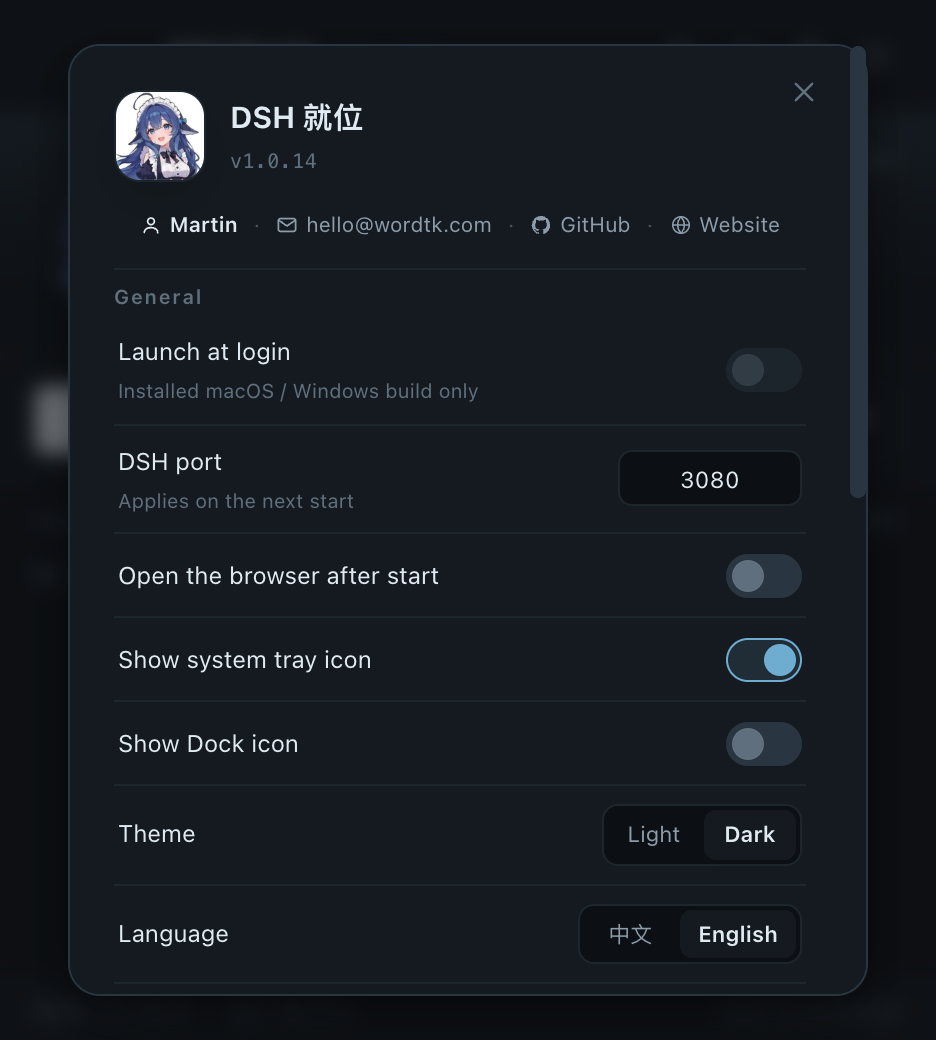
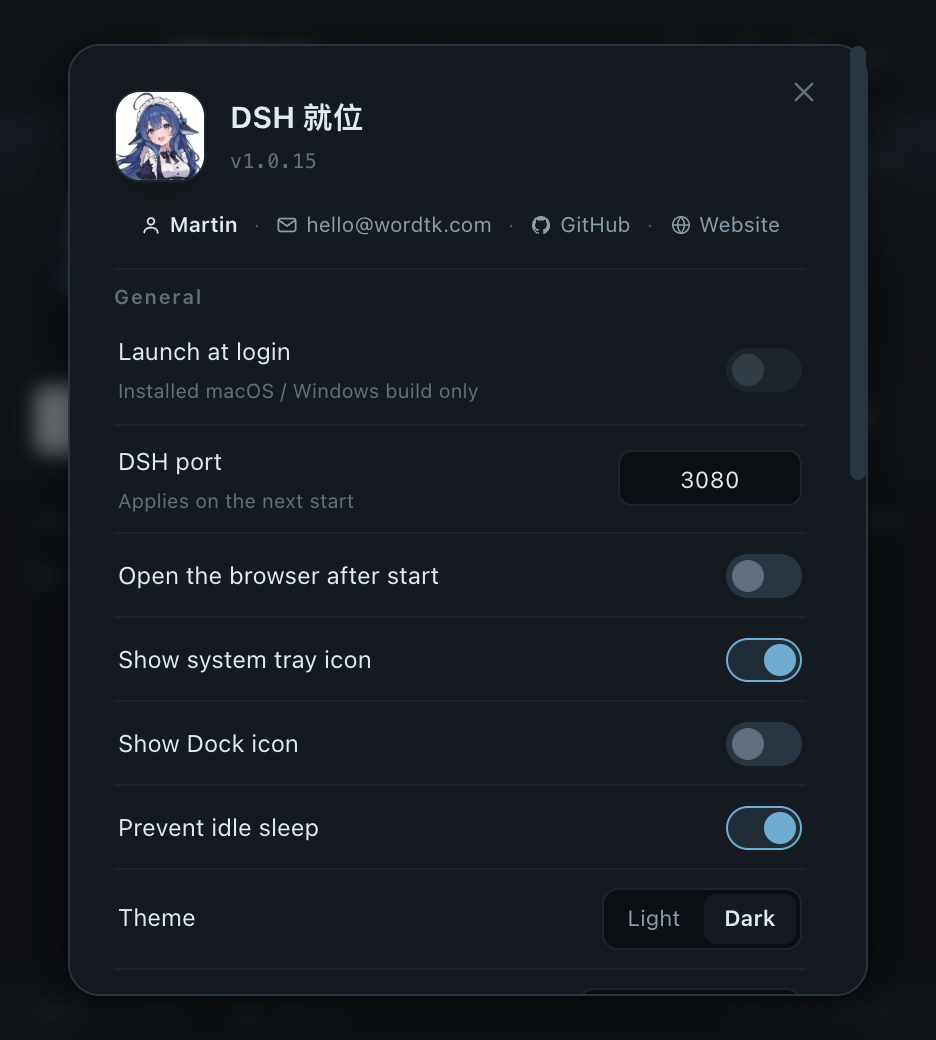
feat(sleep): add a macOS "prevent idle sleep" switch, on by default
A DSH session is useless once the Mac idle-sleeps: the web UI is only reachable
while the process is awake, and macOS suspends back after a few idle minutes even
though nobody touches the keyboard. Settings now has "Prevent idle sleep"
(macOS only, on by default): with it on, the launch is wrapped in
`/usr/bin/caffeinate -i`, so the machine holds a PreventUserIdleSystemSleep
assertion for as long as DSH lives.

- `server.sleepInhibitor()` owns the platform + path knowledge (darwin and an
  existing /usr/bin/caffeinate); the spawn keeps `detached` process groups, so
  stopping DSH still tears down the caffeinate assertion holder with it.
- The setting is read when DSH is spawned, so a toggle cannot apply live. It is
  written immediately and `settings:set` answers `restartRequired` only while an
  app-managed DSH is running; the sheet then raises the in-app confirm dialog.
  "Restart now" runs the new `dsh:restart` (stop -> start, status `restarting`);
  cancelling rolls `preventSleep` back and returns focus to the switch. With DSH
  stopped nothing is asked and the value applies on the next start.
- `.modal` moved above the sheet (z 80 vs 70): the dialog is raised from a switch
  inside the sheet and must be the topmost layer.
- Windows / Linux: the write is refused in the main process, the row is disabled
  with "macOS only" and reads off — the switch never claims what the app cannot do.

Verified on macOS in a sandboxed run (own DSH_HOME, own port, own app data): the
[…]

diff --git a/renderer/i18n.js b/renderer/i18n.js
@@ -37,6 +37,8 @@
       'sheet.showTray': '显示系统托盘图标',
       'sheet.showDock': '显示 Dock 图标',
       'sheet.showDockMacOnly': '仅 macOS 可用',
+      'sheet.preventSleep': '阻止空闲休眠',
+      'sheet.preventSleepMacOnly': '仅 macOS 可用',
       'sheet.npmRegistry': 'npm 源',
       'sheet.registryAuto': '自动',
       'sheet.registryOfficial': '官方',
@@ -75,6 +77,7 @@
       'status.starting': '启动中',
       'status.running': '运行中',
       'status.stopping': '停止中',
+      'status.restarting': '重启中',
       'status.installing': '安装中',
       'status.upgrading': '升级中',
       'status.uninstalling': '卸载中',
@@ -93,6 +96,7 @@
       'hint.starting': '正在准备运行环境，通常几秒内完成。',
       'hint.running': 'DSH 正在本机运行，可随时在浏览器访问。',
       'hint.stopping': '正在关闭 DSH 进程。',
+      'hint.restarting': '正在重启 DSH 进程。',
       'hint.installing': '正在下载并安装依赖，请保持网络连接。',
       'hint.upgrading': '正在升级 DSH 与插件，请保持网络连接。',
       'hint.uninstalling': '正在移除 DSH 程序与配置。',
@@ -160,6 +164,8 @@
       'notice.opened': '已在浏览器打开',
       'notice.stopping': '正在停止 DSH…',
       'notice.stopped': 'DSH 已停止',
+      'notice.restarting': '正在重启 DSH…',
+      'notice.restarted': 'DSH 已重启',
       'notice.upgrading': '开始升级 DSH…',
       'notice.upgraded': 'DSH 已升级',
       'notice.uninstalling': '正在卸载 DSH…',
@@ -178,6 +184,10 @@
       'takeover.cancel': '取消',
 
       'dialog.cancel': '取消',
+      'sleep.restartTitle': '重启 DSH 使设置生效',
+      'sleep.restartDetail': '「阻止空闲休眠」只在启动 DSH 时生效。现在重启 DSH 吗？取消则恢复原来的设置。',
+      'sleep.restartNow': '立即重启',
+      'sleep.reverted': '已取消重启，设置保持不变',
       'quit.title': '退出 DSH 就位',
       'quit.detailRunning': '退出会同时停止正在运行的 DSH 进程。',
       'quit.detailIdle': '退出后需要重新打开应用才能启动 DSH。',
@@ -238,6 +248,8 @@
       'sheet.showTray': 'Show system tray icon',
       'sheet.showDock': 'Show Dock icon',
       'sheet.showDockMacOnly': 'macOS only',
+      'sheet.preventSleep': 'Prevent idle sleep',
+      'sheet.preventSleepMacOnly': 'macOS only',
       'sheet.npmRegistry': 'npm registry',
       'sheet.registryAuto': 'Auto',
       'sheet.registryOfficial': 'Official',
@@ -276,6 +288,7 @@
       'status.starting': 'Starting',
       'status.running': 'Running',
       'status.stopping': 'Stopping',
+      'status.restarting': 'Restarting',
       'status.installing': 'Installing',
       'status.upgrading': 'Upgrading',
       'status.uninstalling': 'Uninstalling',
@@ -294,6 +307,7 @@
       'hint.starting': 'Preparing the runtime, usually a few seconds.',
       'hint.running': 'DSH is running locally and available in your browser.',
       'hint.stopping': 'Closing the DSH process.',
+      'hint.restarting': 'Restarting the DSH process.',
       'hint.installing': 'Downloading and installing dependencies. Keep the network on.',
       'hint.upgrading': 'Upgrading DSH and plugins. Keep the network on.',
       'hint.uninstalling': 'Removing DSH programs and configuration.',
@@ -361,6 +375,8 @@
       'notice.opened': 'Opened in your browser',
       'notice.stopping': 'Stopping DSH…',
       'notice.stopped': 'DSH stopped',
+      'notice.restarting': 'Restarting DSH…',
+      'notice.restarted': 'DSH restarted',
       'notice.upgrading': 'Upgrading DSH…',
       'notice.upgraded': 'DSH upgraded',
       'notice.uninstalling': 'Uninstalling DSH…',
@@ -379,6 +395,10 @@
       'takeover.cancel': 'Cancel',
 
       'dialog.cancel': 'Cancel',
+      'sleep.restartTitle': 'Restart DSH to apply',
+      'sleep.restartDetail': 'Prevent idle sleep only applies when DSH starts. Restart DSH now? Cancelling restores the previous setting.',
+      'sleep.restartNow': 'Restart now',
+      'sleep.reverted': 'Restart cancelled — the setting was rolled back',
       'quit.title': 'Quit DSH Ready',
       'quit.detailRunning': 'Quitting also stops the running DSH process.',
       'quit.detailIdle': 'Reopen the app to start DSH again.',

diff --git a/renderer/app.js b/renderer/app.js
@@ -61,6 +61,8 @@ const els = {
   showTray: $('showTray'),
   showDock: $('showDock'),
   showDockNote: $('showDockNote'),
+  preventSleep: $('preventSleep'),
+  preventSleepNote: $('preventSleepNote'),
   themeSeg: $('themeSeg'),
   langSeg: $('langSeg'),
   registrySeg: $('registrySeg'),
@@ -75,7 +77,7 @@ const els = {
   sponsorBtn: $('sponsorBtn'),
 }
 
-const BUSY_STATUS = new Set(['starting', 'stopping', 'installing', 'upgrading', 'uninstalling', 'takingover'])
+const BUSY_STATUS = new Set(['starting', 'stopping', 'restarting', 'installing', 'upgrading', 'uninstalling', 'takingover'])
 const THEMES = ['light', 'dark']
 const LANGS = ['zh', 'en']
 
@@ -161,6 +163,7 @@ const STATUS_PET = {
   starting: 'busy',
   running: 'running',
   stopping: 'busy',
+  restarting: 'busy',
   installing: 'busy',
   upgrading: 'busy',
   uninstalling: 'busy',
@@ -310,6 +313,8 @@ function defaultHint(current) {
       return t('hint.running')
     case 'stopping':
       return t('hint.stopping')
+    case 'restarting':
+      return t('hint.restarting')
     case 'installing':
       return t('hint.installing')
     case 'upgrading':
@@ -938,12 +943,26 @@ function renderShowDock() {
   els.showDockNote.textContent = supported ? '' : t('sheet.showDockMacOnly')
 }
 
+/**
+ * "Prevent idle sleep" is macOS-only too, and it is applied when DSH is spawned rather
+ * than live. On other platforms the row reads off + disabled: the switch never claims
+ * something the app cannot do there.
+ */
+function renderPreventSleep() {
+  const supported = Boolean(appInfo?.preventSleep?.supported)
+  setSwitch(els.preventSleep, supported && settings?.preventSleep !== false)
+  els.preventSleep.disabled = !supported
+  els.preventSleepNote.hidden = supported
+  els.preventSleepNote.textContent = supported ? '' : t('sheet.preventSleepMacOnly')
+}
+
 /** Paint every control from the settings snapshot; called on open, after every write and on language change. */
 function renderSettingsSheet() {
   if (!settings) return
   setSwitch(els.openInBrowser, Boolean(settings.openInBrowser))
   setSwitch(els.showTray, settings.showTray !== false)
   renderShowDock()
+  renderPreventSleep()
   setSwitch(els.telemetry, settings.telemetry !== false)
   setSwitch(els.autoUpdateCheck, settings.autoUpdateCheck !== false)
 
@@ -1167,6 +1186,46 @@ bindSwitch(els.showTray, 'showTray')
 bindSwitch(els.showDock, 'showDock')
 bindSwitch(els.telemetry, 'telemetry')
 bindSwitch(els.autoUpdateCheck, 'autoUpdateCheck')
+
+/**
+ * "Prevent idle sleep" only exists at launch time (the spawn is wrapped in `caffeinate -i`),
+ * so a running instance has to be restarted for a toggle to take effect. The main process
+ * reports `restartRequired` only while an app-managed DSH is running — with nothing running
+ * the switch is saved silently and applies on the next start.
+ *
+ * Confirming restarts DSH; declining is not "apply later" but a rollback, so the row always
+ * shows a setting that is actually in force.
+ */
+els.preventSleep.addEventListener('click', async () => {
+  if (els.preventSleep.disabled) return
+  const next = els.preventSleep.dataset.on !== 'true'
+  setSwitch(els.preventSleep, next)
+  const result = await window.api.setSettings({ preventSleep: next }).catch(() => null)
+  if (!result?.ok) {
+    setSwitch(els.preventSleep, !next)
+    return
+  }
+  settings = { ...(settings ?? {}), ...result.settings }
+  renderSettingsSheet()
+  if (!result.restartRequired) return
+
+  const confirmed = await showModal({
+    title: t('sleep.restartTitle'),
+    lines: [t('sleep.restartDetail')],
+    confirmText: t('sleep.restartNow'),
+  })
+  if (confirmed) {
+    closeSettings()
+    runAction(() => window.api.restart(), t('notice.restarting'), t('notice.restarted'))
+    return
+  }
+
+  const reverted = await window.api.setSettings({ preventSleep: !next }).catch(() => null)
+  if (reverted?.settings) settings = { ...(settings ?? {}), ...reverted.settings }
+  renderSettingsSheet()
+  els.preventSleep.focus()
+  notice(t('sleep.reverted'))
+})
 
 els.registrySeg.addEventListener('click', (event) => {
   const item = event.target.closest('.seg-item')

diff --git a/renderer/index.html b/renderer/index.html
@@ -113,6 +113,16 @@
         </div>
 
         <div class="row">
+          <div class="row-label">
+            <span data-i18n="sheet.preventSleep">阻止空闲休眠</span>
+            <span id="preventSleepNote" class="row-note" hidden></span>
+          </div>
+          <button id="preventSleep" class="switch" type="button" role="switch" aria-checked="true">
+            <span class="switch-knob"></span>
+          </button>
+        </div>
+
+        <div class="row">
           <span class="row-label" id="themeLabelText" data-i18n="sheet.theme">主题</span>
           <div class="seg" id="themeSeg" role="radiogroup" aria-labelledby="themeLabelText">
             <button class="seg-item" type="button" role="radio" data-value="light" aria-checked="false" data-i18n="theme.light">浅色</button>

diff --git a/site/public/index.html b/site/public/index.html
@@ -47,7 +47,7 @@
         "operatingSystem": "macOS 12+, Windows 10+",
         "description": "DeepSeek Harness 的桌面启动器：一键安装、启动、停止、升级、卸载，全程不需要终端。",
         "offers": { "@type": "Offer", "price": "0", "priceCurrency": "CNY" },
-        "softwareVersion": "1.0.11",
+        "softwareVersion": "1.0.15",
         "url": "__SITE_URL__/",
         "downloadUrl": "__SITE_URL__/#download",
         "license": "https://www.gnu.org/licenses/agpl-3.0.html",

diff --git a/renderer/styles.css b/renderer/styles.css
@@ -391,7 +391,9 @@ body:is([data-status='starting'], [data-status='installing'], [data-status='upgr
 .modal {
   position: fixed;
   inset: 0;
-  z-index: 60;
+  /* Above the settings sheet (70): a switch inside the sheet can raise a confirm dialog
+     (restart DSH to apply), and that dialog has to be the topmost layer. */
+  z-index: 80;
   display: flex;
   align-items: center;
   justify-content: center;

diff --git a/docs/en/design.md b/docs/en/design.md
@@ -73,7 +73,7 @@ No request payload. Response fields:
 
 | Field | Meaning | Values |
 | --- | --- | --- |
-| status | current state | not-installed / stopped / external / starting / running / stopping / installing / upgrading / uninstalling / takingover |
+| status | current state | not-installed / stopped / external / starting / running / stopping / restarting / installing / upgrading / uninstalling / takingover |
 | external | instance on the target port started elsewhere | `{ pid, port, url }` or null |
 | targetPort | target port (editable, default 3080) | 1–65535 |
 | dshVersion | active version | semver or null |
@@ -123,6 +123,13 @@ upgrade in that order.
   port, stops the external process, waits for the port, then restarts from the app.
 - `dsh:open` opens the current URL (with token) in the system browser.
 
+### `dsh:restart`
+
+No request payload; response `{ ok, url }`. Stops the current instance (app-started or the
+accepted external one) and starts it again with the current settings, so launch-time settings
+(prevent idle sleep, proxy, extra arguments) take effect right away. The status shows
+`restarting` meanwhile.
+
 ### `log:get`, `log:clear`, `port:set`, `app:quit`, `lang:set`, `theme:set`
 
 `log:get` → `{ lines }` (last 2000 lines); `log:clear` → `{ ok }`.
@@ -134,21 +141,26 @@ upgrade in that order.
 
 ### `app:info`, `app:auto-launch`
 
-`app:info` → `{ version, site, github, developer, autoLaunch }`, where `autoLaunch` is
-`{ supported, enabled }` and `supported` is true only in the installed macOS / Windows build.
+`app:info` → `{ version, site, github, developer, autoLaunch, dock, preventSleep }`, where
+`autoLaunch` is `{ supported, enabled }` and `supported` is true only in the installed macOS /
+Windows build; `dock.supported` and `preventSleep.supported` are true on macOS only (the
+latter also needs `/usr/bin/caffeinate`).
 `app:auto-launch` takes `{ enabled }`, calls `app.setLoginItemSettings({ openAtLogin })` and
 reads the real state back → `{ ok, supported, enabled }`. Unsupported platforms return
 `ok: false` with a message, and the result is written to the app log.
 
 ### `settings:get`, `settings:set`
 
-`settings:get` → `{ port, openInBrowser, telemetry, autoUpdateCheck, npmRegistry, proxy, dshArgs }`.
-`settings:set` takes any subset of those fields → `{ ok, settings, dropped }`, where `dropped` lists
-the launch-argument tokens the whitelist refused. Values are normalised before writing: `proxy` via
-`normalizeProxy` (illegal input becomes empty), `dshArgs` via `parseDshArgs` (drops `--port` and
-other non-whitelisted tokens), booleans only accept `true` / `false`. A changed `npmRegistry` clears
-the registry cache and re-reads the latest version. Port, theme and language keep their own
-`port:set` / `theme:set` / `lang:set` channels.
+`settings:get` → `{ port, openInBrowser, showTray, showDock, preventSleep, telemetry,
+autoUpdateCheck, npmRegistry, proxy, dshArgs }`.
+`settings:set` takes any subset of those fields → `{ ok, settings, dropped, restartRequired }`,
+where `dropped` lists the launch-argument tokens the whitelist refused and `restartRequired`
+reports that a running app-managed DSH must be restarted before the new `preventSleep` value
+applies. Values are normalised before writing: `proxy` via `normalizeProxy` (illegal input
+becomes empty), `dshArgs` via `parseDshArgs` (drops `--port` and other non-whitelisted tokens),
+booleans only accept `true` / `false`; `preventSleep` is written on macOS only. A changed
+`npmRegistry` clears the registry cache and re-reads the latest version. Port, theme and
+language keep their own `port:set` / `theme:set` / `lang:set` channels.
 
 ### Event `dsh:event`
 
@@ -177,7 +189,7 @@ State → animation mapping (bundled assets):
 | --- | --- | --- |
 | idle breathing | `idle` | not-installed |
 | sleeping | `sleepy` | stopped |
-| busy | `busy` | starting / stopping / installing / upgrading / uninstalling / takingover |
+| busy | `busy` | starting / stopping / restarting / installing / upgrading / uninstalling / takingover |
 | floating steps | `running` | running |
 | looking around | `look` | external |
 | wave | `happy` | clicking the whale girl (2s, then back) |
@@ -202,7 +214,7 @@ loaded. Videos are VP9 with alpha (640×360) cropped into an 86×86 area.
   never wrapped), three groups of settings, and a "Buy me a coffee" button at the bottom.
   Licence and commercial-licensing copy are no longer shown.
 - Settings groups (fixed order):
-  - **General**: launch at login, DSH port, open the browser after start, system tray icon, Dock icon, theme, language.
+  - **General**: launch at login, DSH port, open the browser after start, system tray icon, Dock icon, prevent idle sleep, theme, language.
   - **Network**: npm registry (auto / official / mirror), HTTP(S) proxy, extra DSH arguments.
   - **Privacy & updates**: anonymous launch report, daily update check, manual check button.
 - The port has exactly one entry point: the "DSH port" row in the sheet. The main window shows it
@@ -243,6 +255,14 @@ loaded. Videos are VP9 with alpha (640×360) cropped into an 86×86 area.
 - Proxy normalisation: `host:port` and `http(s)://host:port` are accepted; any other scheme (socks)
   is refused; a single-label host (`http`, `proxy` — usually a half-typed value) must carry an
   explicit port, while IPv4 / dotted names / localhost / IPv6 may omit it; the port must be 1–65535.
+- Prevent idle sleep (macOS only): **on by default** — the launch is wrapped in `caffeinate -i`,
+  so idle sleep (short of closing the lid) no longer interrupts a running session. On Windows /
+  Linux the row is disabled with "macOS only" and reads off: the app really cannot do it there.
+  The value is read when DSH is spawned, so a toggle is written immediately and, when an
+  app-managed DSH is running, the main process answers `restartRequired: true`; the sheet then
+  raises the in-app confirm dialog — "Restart now" runs `dsh:restart` (stop → start, status
+  `restarting`), while cancelling keeps nothing: `preventSleep` is rolled back and focus returns
+  to the switch. With DSH stopped the value is saved silently and applies on the next start.
 - An invalid proxy never overwrites a working one: `settings:set` answers
   `ok:false, invalid:'proxy'`, the field is highlighted and the typed text is kept, instead of the
   earlier behaviour that normalised it to an empty string and silently cleared the stored proxy.
@@ -276,9 +296,9 @@ macOS Apple Silicon (arm64), macOS Intel (x64) and Windows (x64).
 
 | Artifact | Command | Notes |
 | --- | --- | --- |
-| `dsh-ready-1.0.14-arm64.dmg` | `npm run dist:mac:arm64` | Apple Silicon |
-| `dsh-ready-1.0.14-x64.dmg` | `npm run dist:mac:x64` | Intel; cross-builds on Apple Silicon |
-| `dsh-ready-1.0.14-x64.exe` | `npm run dist:win` | NSIS; cross-builds on Apple Silicon |
+| `dsh-ready-1.0.15-arm64.dmg` | `npm run dist:mac:arm64` | Apple Silicon |
+| `dsh-ready-1.0.15-x64.dmg` | `npm run dist:mac:x64` | Intel; cross-builds on Apple Silicon |
+| `dsh-ready-1.0.15-x64.exe` | `npm run dist:win` | NSIS; cross-builds on Apple Silicon |
 
 - Cross-builds download the matching Electron build; Intel/Windows packaging works on
   an Apple Silicon Mac without Wine.

diff --git a/README.md b/README.md
@@ -52,9 +52,9 @@ It starts the official web UI in your system browser.
 
 | Platform | Installer | Notes |
 | --- | --- | --- |
-| macOS Apple Silicon | `dsh-ready-1.0.14-arm64.dmg` | M1 / M2 / M3 / M4 |
-| macOS Intel | `dsh-ready-1.0.14-x64.dmg` | Intel-based Macs |
-| Windows x64 | `dsh-ready-1.0.14-x64.exe` | Windows 10 / 11 |
+| macOS Apple Silicon | `dsh-ready-1.0.15-arm64.dmg` | M1 / M2 / M3 / M4 |
+| macOS Intel | `dsh-ready-1.0.15-x64.dmg` | Intel-based Macs |
+| Windows x64 | `dsh-ready-1.0.15-x64.exe` | Windows 10 / 11 |
 
 Grab them from **[dsh.wordtk.com](https://dsh.wordtk.com)** — the installers live on R2
 and the site always serves the newest version.
@@ -94,10 +94,11 @@ All screenshots are captured from the real app running inside a sandbox, by
   main window); a busy port is reported instead of silently shifted, so the address you see is real.
 - **Settings in one place.** The header is four icons — language (文A), theme, settings, quit.
   The settings sheet is grouped: general (launch at login, DSH port, open the browser after
-  start, system tray icon, Dock icon on macOS, theme, language), network (npm registry auto/official/mirror, HTTP(S) proxy, extra DSH
-  arguments) and privacy & updates (anonymous launch report, daily check, manual check). The port
-  is edited only there — the main window shows it read-only — and extra arguments go through an
-  argv whitelist, never a shell, with `--port` always dropped. Sponsor entry at the bottom.
+  start, system tray icon, Dock icon on macOS, prevent idle sleep on macOS, theme, language),
+  network (npm registry auto/official/mirror, HTTP(S) proxy, extra DSH arguments) and privacy &
+  updates (anonymous launch report, daily check, manual check). The port is edited only there —
+  the main window shows it read-only — and extra arguments go through an argv whitelist, never a
+  shell, with `--port` always dropped. Sponsor entry at the bottom.
 - **Your Node, your environment.** DSH Ready uses the Node and npm from your login
   shell. When Node is missing, older than 22.18, or has no npm, it does not modify
   your environment and shows the localized Node.js download page (Chinese UI → the
